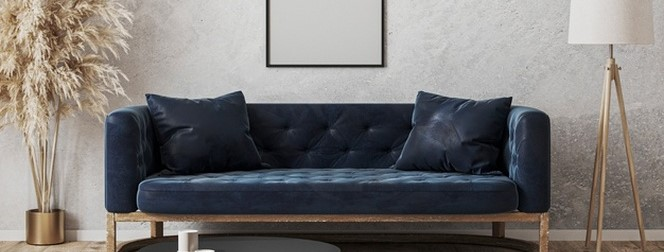
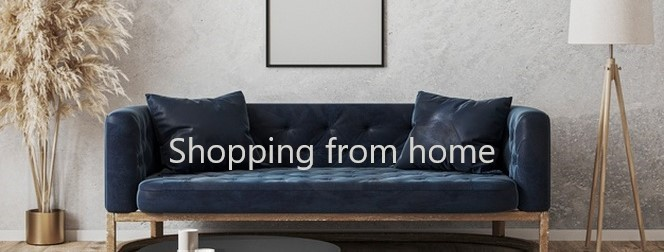
minor design changes . Removed drop down menu .

diff --git a/src/main/resources/static/style.css b/src/main/resources/static/style.css
@@ -49,60 +49,11 @@ li a:hover {background-color: #111;}
 
 .logo a:hover {background-color: #023246;}
 
-.slogan {
-    position: absolute;
-    top: 50%;
-    left: 50%;
-    transform: translate(-50%, -50%);
-    color: #D4D3CE;
-    font-family: 'Abhaya Libre';
-    font-size: 50px;
-}
-
 /*Shopping cart image clickable*/
 .cartImage img{
     height: 20px;
     width: 20px;
 }
-
-/* dropdown menu */
-.dropdown {
-    float: right;
-    overflow: hidden;
-}
-
-.dropdown .dropButton {
-    background-color: #023246;
-    color: #D4D3CE;
-    font-size: 20px;
-    font-family: 'Abhaya Libre';
-    text-align: center;
-    outline: none;
-    border: none;
-    padding: 14px 16px;
-}
-
-.dropdownContent {
-    display: none;
-    position: absolute;
-    background-color: #023246;
-    font-size: 20px;
-    font-family: 'Abhaya Libre';
-    text-align: center;
-    min-width: 100px;
-    z-index: 1;
-}
-
-.dropdownContent a {
-    color: #D4D3CE;
-    padding: 14px 16px;
-    text-decoration: none;
-    display: block;
-}
-
-.dropdown:hover .dropButton{background-color: #111;}
-.dropdownContent a:hover {background-color: #111;}
-.dropdown:hover .dropdownContent {display: block;}
 
 /*-----------------HOMEPAGE-----------------***/
 /*Latest product section of homepage*/

diff --git a/src/main/resources/templates/home.html b/src/main/resources/templates/home.html
@@ -14,20 +14,12 @@
            <!-- <li><a href="/login_signup">Sign up/Login</a></li>-->
            <li><a th:href="@{(${credentials == null} ? '/login_signup': '/logout')}" th:text="${credentials} ? 'LogOut' : 'Sign up/Login'"></a></li>
            <li><a href="/profile">Profile</a></li>
-            <div class="dropdown">
-                <button class="dropButton" href="#products">Products</button>
-                <div class="dropdownContent">
-                    <a href="/products">Tables</a>
-                    <a href="/products">Chairs</a>
-                    <a href="/products">Couches</a>
-                </div>
-            </div>
+            <li><a href="/products">Products</a></li>
             <li style="float: left"><a class ="logo" href="/">StayAtHomies</a></li>
         </ul>
     </nav>
     <div class="container" >
         <img src="images/home-main-image.jpg" alt="Shopping Cart" width="100%" height="80%">
-        <h3 class="slogan">Shopping from home</h3>
 
         <div style="overflow: auto;">
             <table class="mainContainer" align="center">

diff --git a/src/main/resources/templates/login_signup.html b/src/main/resources/templates/login_signup.html
@@ -8,14 +8,7 @@
             <li><a class="cartImage" href="/cart"><img src="images/cart.png" alt="Shopping Cart"></a></li>
             <li><a th:href="@{(${credentials == null} ? '/login_signup': '/logout')}" th:text="${credentials} ? 'LogOut' : 'Sign up/Login'"></a></li>
             <li><a href="/profile">Profile</a></li>
-            <div class="dropdown">
-                <button class="dropButton" href="#products">Products</button>
-                <div class="dropdownContent">
-                    <a href="/products">Tables</a>
-                    <a href="/products">Chairs</a>
-                    <a href="/products">Couches</a>
-                </div>
-            </div>
+            <li><a href="/products">Products</a></li>
             <li style="float: left"><a class ="logo" href="/">StayAtHomies</a></li>
         </ul>
     </nav>

diff --git a/src/main/resources/templates/shop_cart.html b/src/main/resources/templates/shop_cart.html
@@ -5,7 +5,7 @@
     <nav th:replace="home :: navbar"> </nav>
 
     <div class="container cart_container">
-        <p id="cart_header">Shopping Cart</p>
+        <h2 id="cart_header">Shopping Cart</h2>
 
         <th:block th:if="${#arrays.isEmpty(shop_cart.cartItems)}">
             <div id="empty_cart_msg"><h2>&diams; Shopping cart is empty &diams;</h2></div>
